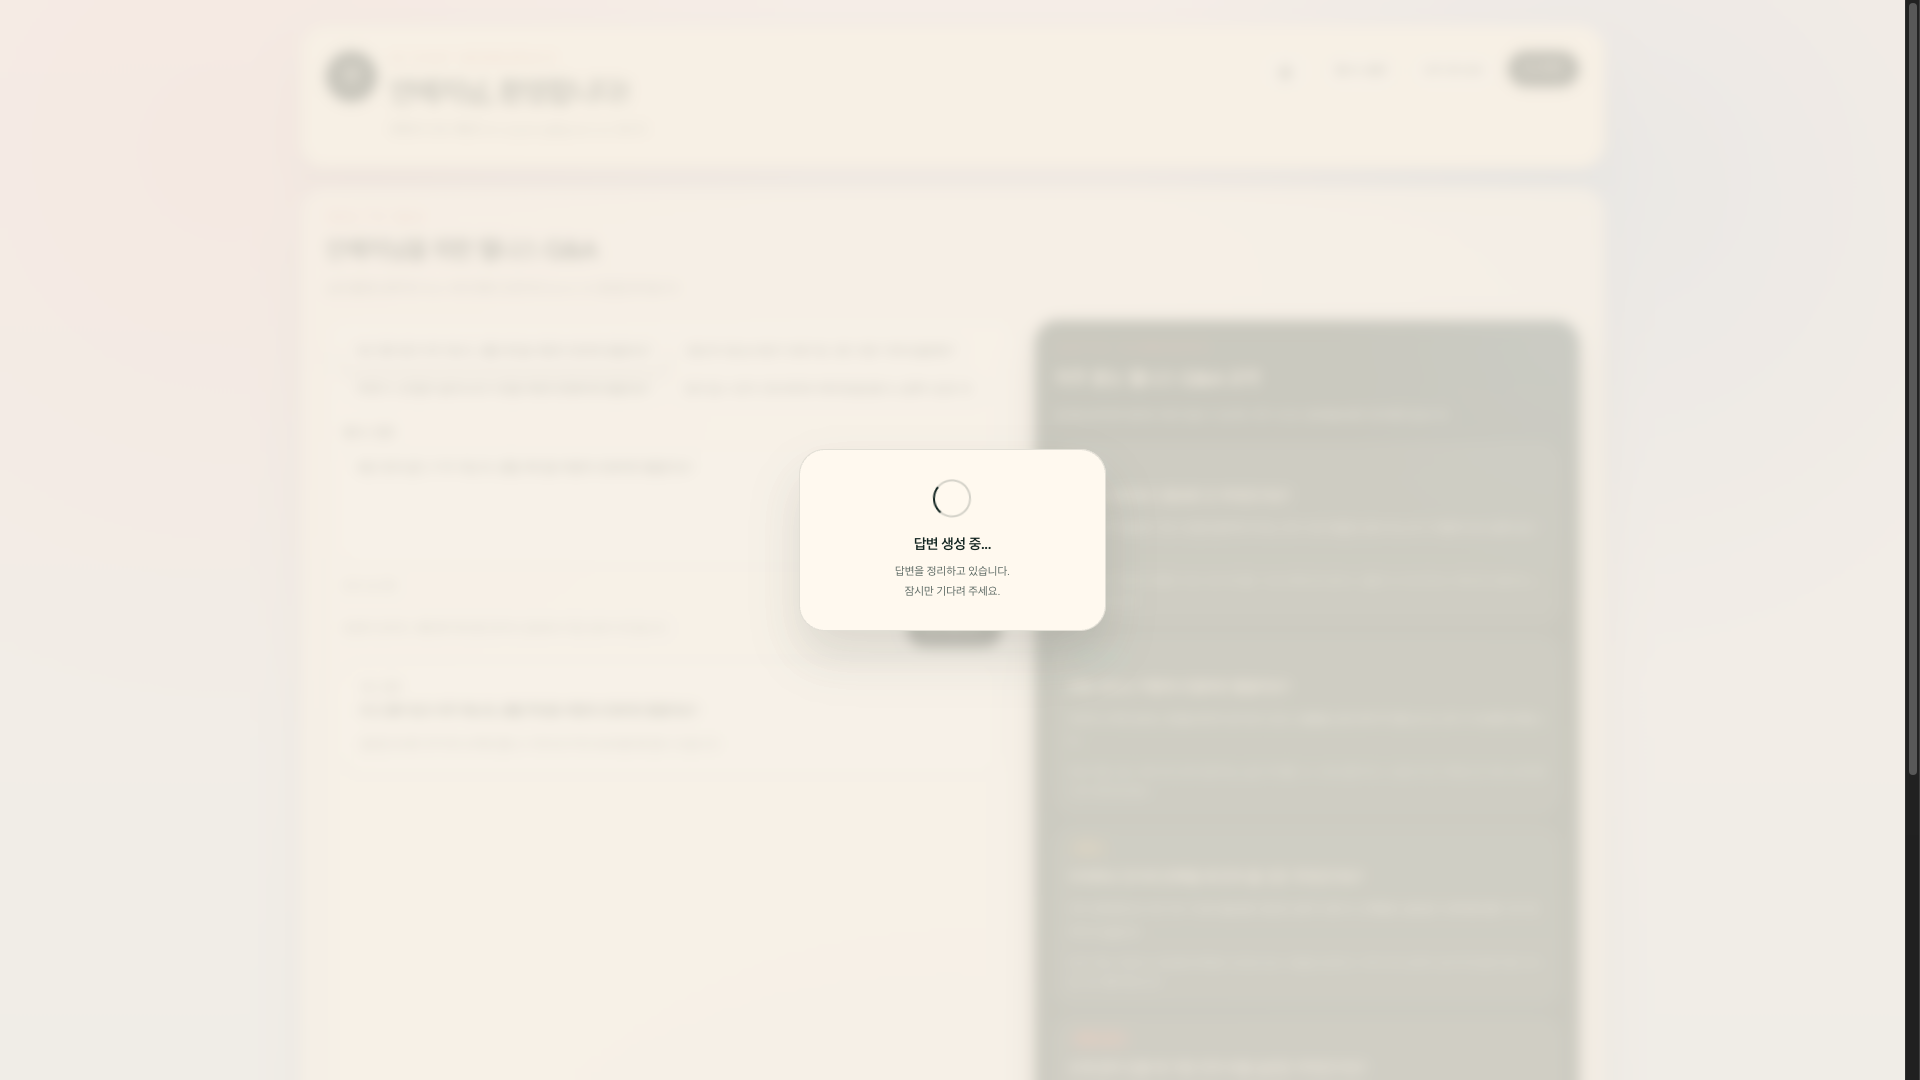
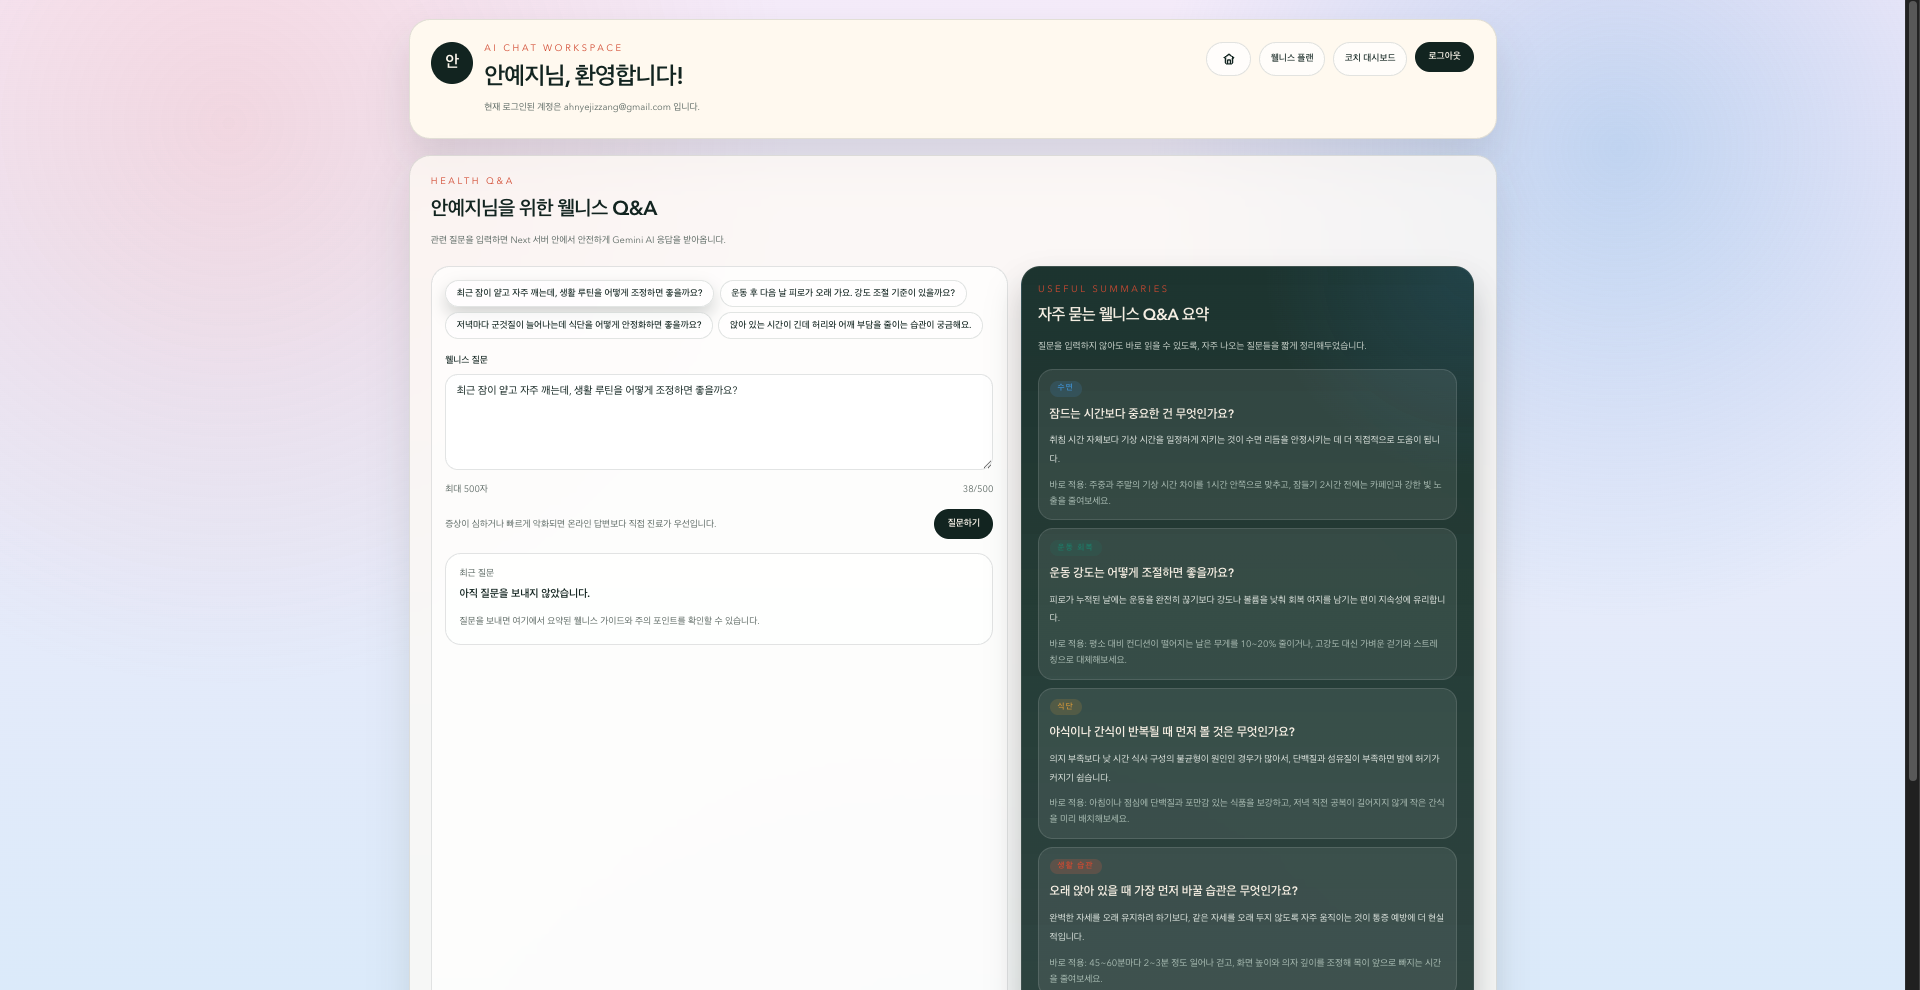
docs: README.md 파일에 화면 캡쳐 이미지 추가

diff --git a/README.md b/README.md
@@ -75,20 +75,22 @@
 
 ---
 
-**2. 로그인 상태**
-<table>
-  <tr>
-    <td align="center" width="33.33%">
-      <img src="./public/readme/home/home-sleep.png" alt="홈 로그인 수면 화면" width="100%" />
-    </td>
-    <td align="center" width="33.33%">
-      <img src="./public/readme/home/home-exercise.png" alt="홈 로그인 운동 화면" width="100%" />
-    </td>
-    <td align="center" width="33.33%">
-      <img src="./public/readme/home/home-meal.png" alt="홈 로그인 식단 화면" width="100%" />
-    </td>
-  </tr>
-</table>
+**2-1. 로그인 상태 - 수면 플랜**
+![홈 화면](./public/readme/home/sleep/home-sleep.png)
+![홈 화면](./public/readme/home/sleep/home-sleep-brief.png)
+
+---
+
+**2-2. 로그인 상태 - 운동 플랜**
+![홈 화면](./public/readme/home/exercise/home-exercise.png)
+![홈 화면](./public/readme/home/exercise/home-exercise-brief.png)
+![홈 화면](./public/readme/home/exercise/home-exercise2.png)
+
+---
+
+**2-3. 로그인 상태 - 식단 플랜**
+![홈 화면](./public/readme/home/meal/home-meal-brief.png)
+![홈 화면](./public/readme/home/meal/home-meal.png)
 
 ---
 
@@ -115,7 +117,7 @@
 **1. 수면 플랜**
 
 ![수면 플랜 1](./public/readme/plan/plan-sleep.png)
-수면을 현재 최우선 플랜으로 선택했을 때의 보드 상태입니다.
+수면을 최우선 플랜으로 선택했을 때의 보드 상태입니다.
 
 ![수면 플랜 2](./public/readme/plan/plan-sleep2.png)
 총 수면 시간, 스크린 오프, 취침 준비 루틴 등 수면 브리핑 지표를 입력하는 브리핑 다이얼로그 입니다.
@@ -128,7 +130,7 @@
 **2. 운동 플랜**
 
 ![운동 플랜 1](./public/readme/plan/plan-exercise.png)
-운동을 우선순위로 전환했을 때 카드 색상과 코칭 내용이 함께 바뀐 상태입니다.
+운동을 최우선 플랜으로 선택했을 때의 보드 상태입니다.
 
 ![운동 플랜 2](./public/readme/plan/plan-exercise2.png)
 주간 근력 횟수, 유산소 횟수, 활동 칼로리, 회복 상태 등을 입력하는 브리핑 다이얼로그 입니다.
@@ -141,7 +143,7 @@
 **3. 식단 플랜**
 
 ![식단 플랜 1](./public/readme/plan/plan-meal.png)
-식단을 우선순위로 전환했을 때 카드 색상과 코칭 내용이 함께 바뀐 상태입니다.
+식단을 최우선 플랜으로 선택했을 때의 보드 상태입니다.
 
 ![식단 플랜 2](./public/readme/plan/plan-meal2.png)
 단백질, 수분, 군것질 횟수, 야식 빈도 등을 입력하는 브리핑 다이얼로그 입니다.
@@ -156,21 +158,18 @@
 **1. 수면 플랜**
 
 ![코치 대시보드 수면](./public/readme/coach/coach-sleep.png)
-가입 시 입력한 프로필과 수면 중심 요약 정보를 함께 보여주는 대시보드 상태입니다.
 
 ---
 
 **2. 운동 플랜**
 
 ![코치 대시보드 운동](./public/readme/coach/coach-exercise.png)
-운동 관련 플랜 요약과 주간 리포트가 반영된 개인 코치 대시보드 화면입니다.
 
 ---
 
 **3. 식단 플랜**
 
 ![코치 대시보드 식단](./public/readme/coach/coach-meal.png)
-식단 중심의 웰니스 요약과 개인화된 코치 정보를 확인할 수 있는 대시보드 상태입니다.
 
 ---
 
@@ -179,6 +178,7 @@
 추천 질문, 대화 입력, 응답 결과 흐름입니다.
 
 ![AI Chat 1](./public/readme/ai-chat/ai-chat.png)
+![AI Chat 1](./public/readme/ai-chat/ai-chat4.png)
 ![AI Chat 2](./public/readme/ai-chat/ai-chat2.png)
 ![AI Chat 3](./public/readme/ai-chat/ai-chat3.png)
 - 추천 질문과 최근 흐름을 바탕으로 웰니스 상담을 시작할 수 있는 AI Chat 초기 화면입니다.
